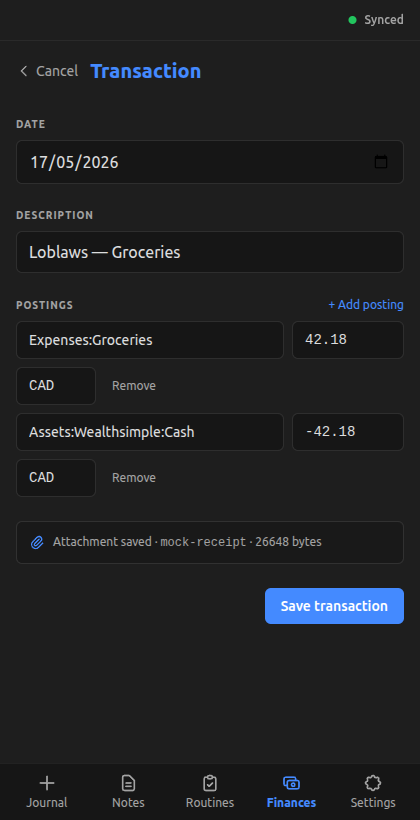
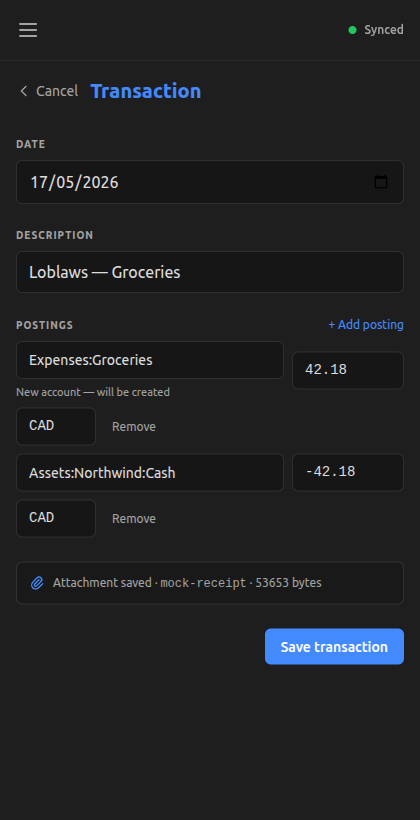
Sanitize omni-me logbook posts to fictional roster

diff --git a/content/posts/logbook/omni-me/reconciling-multi-source-transactions/index.md b/content/posts/logbook/omni-me/reconciling-multi-source-transactions/index.md
@@ -68,13 +68,13 @@ test reconciliation::tests::rejects_amount_mismatch ... ok
 test reconciliation::tests::rejects_outside_days_window ... ok
 test reconciliation::tests::rejects_currency_mismatch ... ok
 test reconciliation::tests::rejects_same_sign_pairs ... ok
-test statement_csv::tests::parse_cibc_chequing_empty_input_errors ... ok
-test statement_csv::tests::parse_cibc_chequing_handles_zero_amount_as_skip ... ok
-test statement_csv::tests::parse_cibc_chequing_accepts_legacy_us_date_format ... ok
-test statement_csv::tests::parse_cibc_chequing_rejects_both_debit_and_credit_populated ... ok
-test statement_csv::tests::parse_cibc_chequing_basic ... ok
-test statement_csv::tests::parse_cibc_chequing_skips_blank_blank_row ... ok
-test statement_csv::tests::parse_cibc_chequing_skips_header_row ... ok
+test statement_csv::tests::parse_chequing_csv_empty_input_errors ... ok
+test statement_csv::tests::parse_chequing_csv_handles_zero_amount_as_skip ... ok
+test statement_csv::tests::parse_chequing_csv_accepts_legacy_us_date_format ... ok
+test statement_csv::tests::parse_chequing_csv_rejects_both_debit_and_credit_populated ... ok
+test statement_csv::tests::parse_chequing_csv_basic ... ok
+test statement_csv::tests::parse_chequing_csv_skips_blank_blank_row ... ok
+test statement_csv::tests::parse_chequing_csv_skips_header_row ... ok
 
 test result: ok. 22 passed; 0 failed; 0 ignored; 0 measured; 347 filtered out; finished in 0.00s
 
@@ -95,17 +95,17 @@ statement source; output stable in score-descending order.
 positive discrepancy when cleared exceeds statement; negative when
 cleared falls short.
 
-[`core/src/statement_csv.rs:75`](https://github.com/RustWright/omni-me/blob/55421b3ed61f2d5b4df308a94810c0e7c68b7615/core/src/statement_csv.rs#L75) at `55421b3`
-> `pub fn parse_cibc_chequing(csv: &str) -> Result<Vec<ParsedStatementRow>, CsvParseError> {`
+[`core/src/statement_csv.rs:75`](https://github.com/RustWright/omni-me/blob/baf3fd48e9d6ea5cebad9590eaaf7de1c2750a11/core/src/statement_csv.rs#L75) at `baf3fd4`
+> `pub fn parse_chequing_csv(csv: &str) -> Result<Vec<ParsedStatementRow>, CsvParseError> {`
 >
-> parse_cibc_chequing — the CSV parser entry. Returns a format-agnostic ParsedStatementRow shape (date, description, amount + sign direction); the caller layers on the source-account + Unmatched-leg construction at the Tauri-command boundary.
+> parse_chequing_csv — the CSV parser entry. Returns a format-agnostic ParsedStatementRow shape (date, description, amount + sign direction); the caller layers on the source-account + Unmatched-leg construction at the Tauri-command boundary.
 
-[`core/src/reconciliation.rs:69`](https://github.com/RustWright/omni-me/blob/55421b3ed61f2d5b4df308a94810c0e7c68b7615/core/src/reconciliation.rs#L69) at `55421b3`
+[`core/src/reconciliation.rs:69`](https://github.com/RustWright/omni-me/blob/baf3fd48e9d6ea5cebad9590eaaf7de1c2750a11/core/src/reconciliation.rs#L69) at `baf3fd4`
 > `pub fn find_match_candidates(`
 >
 > find_match_candidates — the matching engine entry. Walks Unmatched-touching transactions pairwise, gates on amount-cancels-out + same-commodity + within-days-window, scores survivors by day-decay + description-similarity, and returns pairs in score-descending order (lex-stable so the same input yields the same output).
 
-[`core/src/budget.rs:208`](https://github.com/RustWright/omni-me/blob/55421b3ed61f2d5b4df308a94810c0e7c68b7615/core/src/budget.rs#L208) at `55421b3`
+[`core/src/budget.rs:208`](https://github.com/RustWright/omni-me/blob/baf3fd48e9d6ea5cebad9590eaaf7de1c2750a11/core/src/budget.rs#L208) at `baf3fd4`
 > `pub fn balance_check(`
 >
 > balance_check — sums the cleared postings on the supplied account up through the as-of date, then subtracts the statement's reported closing balance. Zero is balanced; any non-zero is the discrepancy the verdict card surfaces.
@@ -143,11 +143,11 @@ When the workflow is done, Balance check audits the result against
 the statement's reported total:
 
 
-![The Balance check form filled in for Assets:CIBC:Chequing with a statement balance of 1500.00 CAD; below, an amber verdict card reads "Discrepancy: -20.00 CAD (1480.00 cleared vs 1500.00 on statement)".](./balance-check-discrepancy-verdict.png)
+![The Balance check form filled in for Assets:Summit:Chequing with a statement balance of 1500.00 CAD; below, an amber verdict card reads "Discrepancy: -20.00 CAD (1480.00 cleared vs 1500.00 on statement)".](./balance-check-discrepancy-verdict.png)
 
 ## What's worth remembering or doing next?
 
 - The matching engine is a concepts-demo candidate: a pure-transform WASM island taking fake `Unmatched`-touching transactions, surfacing ranked candidates, and rendering the merge. Teaches the balance-zero invariant interactively.
 - Cross-commodity matching is deferred (same-commodity gate today). Workaround: merge cross-currency pairs manually. Revisit when FX-pair patterns are common enough to make the manual path painful.
 - A balancing-posting affordance for hidden fees (wire fees, FX spread) is deferred. Workaround: record a separate manual fee transaction. Revisit if reconciliation often needs a third leg.
-- CSV format variants deferred — credit-card layout adds a column the chequing parser doesn't read; non-CIBC banks need their own parser. Sign convention already covers Asset and Liability accounts uniformly.
+- CSV format variants deferred — credit-card layout adds a column the chequing parser doesn't read; non-Summit banks need their own parser. Sign convention already covers Asset and Liability accounts uniformly.

diff --git a/content/posts/logbook/omni-me/browse-view-edit-transactions/index.md b/content/posts/logbook/omni-me/browse-view-edit-transactions/index.md
@@ -66,7 +66,7 @@ test result: ok. 0 passed; 0 failed; 0 ignored; 0 measured; 5 filtered out; fini
 
 ```
 
-[`core/src/events/budget_projection.rs:1148`](https://github.com/RustWright/omni-me/blob/c3a3f893e64bfe6690b332261a0175bb50985328/core/src/events/budget_projection.rs#L1148) at `c3a3f89`
+[`core/src/events/budget_projection.rs:1242`](https://github.com/RustWright/omni-me/blob/baf3fd48e9d6ea5cebad9590eaaf7de1c2750a11/core/src/events/budget_projection.rs#L1242) at `baf3fd4`
 > `    async fn list_transactions_filter_by_date_range() {`
 >
 > Filter test block — six tests against a tempfile::tempdir + real BudgetProjection fixture cover all four filter axes (date range, account substring case-insensitive, category exact, tag membership) plus blank-string normalization plus the empty-filter pass-through. This first test is one of the six; the rest follow immediately below.
@@ -76,7 +76,7 @@ The list view drives the filter from the frontend side. The screenshot below app
 
 ![Transaction list with tag:food filter applied — two of four mock-fixture rows pass](./01-transaction-list-filtered.png)
 
-[`tauri-app/frontend/src/pages/finances.rs:1732`](https://github.com/RustWright/omni-me/blob/c3a3f893e64bfe6690b332261a0175bb50985328/tauri-app/frontend/src/pages/finances.rs#L1732) at `c3a3f89`
+[`tauri-app/frontend/src/pages/finances.rs:2145`](https://github.com/RustWright/omni-me/blob/baf3fd48e9d6ea5cebad9590eaaf7de1c2750a11/tauri-app/frontend/src/pages/finances.rs#L2145) at `baf3fd4`
 > `fn TransactionListView(`
 >
 > The list view's two-state filter — `draft_filter` for what the FilterBar inputs hold, `active_filter` for what the current page reflects. Typing into a field doesn't fire a query; only Apply copies draft → active, and the `use_effect` re-runs on `active_filter` change. Load-more pagination defaults to 50 rows per page.
@@ -102,7 +102,7 @@ test result: ok. 5 passed; 0 failed; 0 ignored; 0 measured; 28 filtered out; fin
 
 ```
 
-[`tauri-app/frontend/src/pages/finances.rs:2416`](https://github.com/RustWright/omni-me/blob/c3a3f893e64bfe6690b332261a0175bb50985328/tauri-app/frontend/src/pages/finances.rs#L2416) at `c3a3f89`
+[`tauri-app/frontend/src/pages/finances.rs:5360`](https://github.com/RustWright/omni-me/blob/baf3fd48e9d6ea5cebad9590eaaf7de1c2750a11/tauri-app/frontend/src/pages/finances.rs#L5360) at `baf3fd4`
 > `mod tests {`
 >
 > Pure-fn tests for the attachment-helper layer — `classify_attachment` over image, PDF, and "other" MIME variants (including case-insensitivity), plus `extract_attachment_meta` over complete and missing-required-field refs.
@@ -114,7 +114,7 @@ The image-render branch is what the next screenshot shows. The mock backend serv
 
 What revokes the URL when the user navigates away?
 
-[`tauri-app/frontend/src/pages/finances.rs:2127`](https://github.com/RustWright/omni-me/blob/c3a3f893e64bfe6690b332261a0175bb50985328/tauri-app/frontend/src/pages/finances.rs#L2127) at `c3a3f89`
+[`tauri-app/frontend/src/pages/finances.rs:2956`](https://github.com/RustWright/omni-me/blob/baf3fd48e9d6ea5cebad9590eaaf7de1c2750a11/tauri-app/frontend/src/pages/finances.rs#L2956) at `baf3fd4`
 > `impl Drop for ObjectUrlGuard {`
 >
 > Object-URL lifetime guard. The `Drop` impl calls `URL.revokeObjectURL` so the WebView doesn't accumulate orphaned blob URLs across navigations. The detail view holds the guard in a `Signal<Option<ObjectUrlGuard>>`, so unmount drops the guard and revokes the URL automatically.
@@ -124,7 +124,7 @@ Inline edit happens on both surfaces and uses the same component pair. The scree
 
 ![Inline tag edit caught mid-state — a tag input has replaced the +tag affordance, the wrapping row did not navigate to detail](./03-inline-edit-mid-edit.png)
 
-[`tauri-app/frontend/src/pages/finances.rs:1540`](https://github.com/RustWright/omni-me/blob/c3a3f893e64bfe6690b332261a0175bb50985328/tauri-app/frontend/src/pages/finances.rs#L1540) at `c3a3f89`
+[`tauri-app/frontend/src/pages/finances.rs:1953`](https://github.com/RustWright/omni-me/blob/baf3fd48e9d6ea5cebad9590eaaf7de1c2750a11/tauri-app/frontend/src/pages/finances.rs#L1953) at `baf3fd4`
 > `fn EditableCategoryChip(`
 >
 > The inline-edit chip. Click swaps the chip for an input; Enter saves and the chip updates in place, Escape cancels. Every internal click calls `stop_propagation` so the wrapping list-row button doesn't navigate to detail mid-edit — that's the load-bearing engineering claim of inline editing on a clickable row. Same pattern (click-to-input, Enter saves, Escape cancels, `stop_propagation` on every internal click) drives the tag-list editor too.

diff --git a/content/posts/logbook/omni-me/capture-transaction-with-receipt/index.md b/content/posts/logbook/omni-me/capture-transaction-with-receipt/index.md
@@ -17,7 +17,7 @@ omni-me accepts a transaction through four entry points: a photo, a PDF, the bod
 
 The budget pipeline existed end-to-end on the backend before any of this work began: 16 event types, 12 Tauri commands, and three auto-import sources running server-side. None of it had a UI inbound path. The commands were orphan code, reachable only from DevTools — usable on paper, unreachable from the app.
 
-Automatic import — Wise, WealthSimple, and an email IMAP poller — was the foreground work for the preceding stretch; the previous personal-finance tracking attempt collapsed when manual sync became tedious enough to abandon, which is why automation got priority. But automatic import only covers what the user's banks export. Everything else — paper receipts, photo receipts, ad-hoc cash transactions, statements from accounts without an API — still needs a hand-driven entry path. Capture is that path.
+Automatic import — Globepay, Northwind, and an email IMAP poller — was the foreground work for the preceding stretch; the previous personal-finance tracking attempt collapsed when manual sync became tedious enough to abandon, which is why automation got priority. But automatic import only covers what the user's banks export. Everything else — paper receipts, photo receipts, ad-hoc cash transactions, statements from accounts without an API — still needs a hand-driven entry path. Capture is that path.
 
 Persisting the captured file alongside the transaction was the last sub-step before *capture* meant what it sounded like. Without it, the receipt is discarded the moment the transaction is saved, and the auto-import-vs-manual distinction collapses into "either way the source document disappears."
 
@@ -63,7 +63,7 @@ running 0 tests
 test result: ok. 0 passed; 0 failed; 0 ignored; 0 measured; 0 filtered out; finished in 0.00s
 ```
 
-[`tauri-app/src-tauri/src/commands/attachments.rs:1`](https://github.com/RustWright/omni-me/blob/3bde328e748d6113586f9059fc186b1b26c5b2b0/tauri-app/src-tauri/src/commands/attachments.rs#L1) at `3bde328`
+[`tauri-app/src-tauri/src/commands/attachments.rs:1`](https://github.com/RustWright/omni-me/blob/baf3fd48e9d6ea5cebad9590eaaf7de1c2750a11/tauri-app/src-tauri/src/commands/attachments.rs#L1) at `baf3fd4`
 > `//! Local attachment cache (Phase 3.7).`
 >
 > The cache module — the five tests at the bottom `#[cfg(test)] mod tests` block exercise the LRU in isolation, no Tauri runtime involved.
@@ -80,7 +80,7 @@ Picking a file kicks off the extract round trip. The confirm form lands pre-popu
 
 ![TransactionForm pre-populated with extracted draft and the Attachment saved indicator](./03-transaction-form-with-attachment.png)
 
-[`server/src/routes/documents.rs:46`](https://github.com/RustWright/omni-me/blob/3bde328e748d6113586f9059fc186b1b26c5b2b0/server/src/routes/documents.rs#L46) at `3bde328`
+[`server/src/routes/documents.rs:46`](https://github.com/RustWright/omni-me/blob/baf3fd48e9d6ea5cebad9590eaaf7de1c2750a11/server/src/routes/documents.rs#L46) at `baf3fd4`
 > `async fn extract_handler(`
 >
 > The `extract_handler` — when `?attach=true` is set on the query, the same body bytes that get extracted are hashed and stored into the blob dir; the response carries the `AttachmentRef` back in one round trip.

diff --git a/content/posts/logbook/omni-me/budget-setup-progress/index.md b/content/posts/logbook/omni-me/budget-setup-progress/index.md
@@ -87,12 +87,12 @@ skipped silently. **Posting flatten** (4 tests): non-expense legs
 drop, foreign legs without a Prices entry drop, base-currency legs
 pass through, malformed rows skip.
 
-[`core/src/budget.rs:27`](https://github.com/RustWright/omni-me/blob/55421b3ed61f2d5b4df308a94810c0e7c68b7615/core/src/budget.rs#L27) at `55421b3`
+[`core/src/budget.rs:27`](https://github.com/RustWright/omni-me/blob/baf3fd48e9d6ea5cebad9590eaaf7de1c2750a11/core/src/budget.rs#L27) at `baf3fd4`
 > `pub fn period_to_days(period: &str) -> Option<u32> {`
 >
 > period_to_days — the cadence parser. `custom:N` is the forward-compat hook the dropdown doesn't yet expose; the test bucket above covers its positive-integer / zero / non-numeric branches.
 
-[`core/src/budget.rs:266`](https://github.com/RustWright/omni-me/blob/55421b3ed61f2d5b4df308a94810c0e7c68b7615/core/src/budget.rs#L266) at `55421b3`
+[`core/src/budget.rs:266`](https://github.com/RustWright/omni-me/blob/baf3fd48e9d6ea5cebad9590eaaf7de1c2750a11/core/src/budget.rs#L266) at `baf3fd4`
 > `pub fn compute_budget_progress(`
 >
 > compute_budget_progress — the aggregator entry point. Takes the budget set, the flattened postings, and an `as_of` date; per budget, resolves the current window via `current_period_window`, sums matching postings, and returns the `BudgetProgress` rows the screen renders.
@@ -121,7 +121,7 @@ and falls back to the raw string for unknowns — so a hand-crafted
 being silently downgraded. **Bar color** (3 tests): the three-band
 policy picks green under 75%, amber up to 100%, red over budget.
 
-[`tauri-app/frontend/src/pages/finances.rs:3239`](https://github.com/RustWright/omni-me/blob/55421b3ed61f2d5b4df308a94810c0e7c68b7615/tauri-app/frontend/src/pages/finances.rs#L3239) at `55421b3`
+[`tauri-app/frontend/src/pages/finances.rs:3843`](https://github.com/RustWright/omni-me/blob/baf3fd48e9d6ea5cebad9590eaaf7de1c2750a11/tauri-app/frontend/src/pages/finances.rs#L3843) at `baf3fd4`
 > `fn progress_color_class(percent_used: f64, over_budget: bool) -> &'static str {`
 >
 > progress_color_class — the bar-color policy. Takes the percent-used and an over-budget flag; returns the Tailwind class for the bar fill. The three-band cutoffs visible in the screenshots below land in this function.
@@ -130,7 +130,7 @@ The screen's entry point lives in the Finances tab's *Plan +
 reconcile* section, alongside Recurring and Import statement:
 
 
-![The Finances home with the Plan + reconcile section showing three entries: Budgets, Recurring, and Import statement.](./finances-home-plan-reconcile-section.png)
+![The Finances home scrolled to the Plan + reconcile section, with Budgets listed alongside Recurring, Import statement, and the other reconcile entries.](./finances-home-plan-reconcile-section.png)
 
 Inside, the screen carries the add form at the top and one progress
 row per saved budget. Three rows here illustrate the three color

diff --git a/content/posts/logbook/omni-me/account-list-multi-currency/index.md b/content/posts/logbook/omni-me/account-list-multi-currency/index.md
@@ -28,7 +28,7 @@ converts.
 ## Why was it added now?
 
 The user holds money in several currencies, at multiple banks. A
-typical mix today spans CAD, USD, EUR, and NGN, and that set tends to
+typical mix today spans CAD, USD, EUR, and AED, and that set tends to
 grow as new activities come up. Without a surface that converts those
 holdings into one figure, "how much do I have right now" requires
 re-doing the FX math across banking apps or a spreadsheet. The
@@ -92,23 +92,23 @@ splicing** — joining the reconciliation date and statement balance
 onto the computed balance so the screen can show "last reconciled
 through X · statement Y."
 
-[`core/src/balances.rs:93`](https://github.com/RustWright/omni-me/blob/a43610db99545c992aebb9917387449a358a5bae/core/src/balances.rs#L93) at `a43610d`
+[`core/src/balances.rs:83`](https://github.com/RustWright/omni-me/blob/baf3fd48e9d6ea5cebad9590eaaf7de1c2750a11/core/src/balances.rs#L83) at `baf3fd4`
 > `pub fn account_summaries(`
 >
 > Pure-function entry point — takes journal content + declared accounts + base currency, returns one summary per surfaced account with per-commodity rows and a base-currency total.
 
-[`core/src/balances.rs:180`](https://github.com/RustWright/omni-me/blob/a43610db99545c992aebb9917387449a358a5bae/core/src/balances.rs#L180) at `a43610d`
+[`core/src/balances.rs:257`](https://github.com/RustWright/omni-me/blob/baf3fd48e9d6ea5cebad9590eaaf7de1c2750a11/core/src/balances.rs#L257) at `baf3fd4`
 > `mod tests {`
 >
 > Test module — fixtures + the 8 test cases that exercise the three buckets above.
 
 The rendered screen shows the multi-commodity row in context — the
-Wise account folds CAD, EUR, and USD into a single CAD total, and the
-Standard Chartered NGN account shows the `—` badge where no rate is
+Globepay account folds CAD, EUR, and USD into a single CAD total, and the
+Meridian AED account shows the `—` badge where no rate is
 available to convert the native amount:
 
 
-![Accounts screen showing five cards — the Wise row folds CAD, EUR, and USD into a single CAD total; the Standard Chartered NGN row shows the `—` badge where no rate is available to convert the native amount.](./01-accounts-multi-currency.png)
+![Accounts screen showing five cards — the Globepay row folds CAD, EUR, and USD into a single CAD total; the Meridian AED row shows the `—` badge where no rate is available to convert the native amount.](./01-accounts-multi-currency.png)
 
 ## What's worth remembering or doing next?
 

diff --git a/content/posts/logbook/omni-me/recurring-detection-confirmation/index.md b/content/posts/logbook/omni-me/recurring-detection-confirmation/index.md
@@ -82,17 +82,17 @@ otherwise-clean rhythm. **Determinism** (1 test): the pattern id
 derived from the vendor/amount/cadence shape is stable across runs —
 what lets the user's Confirm or Dismiss survive a re-scan.
 
-[`core/src/recurring.rs:57`](https://github.com/RustWright/omni-me/blob/55421b3ed61f2d5b4df308a94810c0e7c68b7615/core/src/recurring.rs#L57) at `55421b3`
+[`core/src/recurring.rs:57`](https://github.com/RustWright/omni-me/blob/baf3fd48e9d6ea5cebad9590eaaf7de1c2750a11/core/src/recurring.rs#L57) at `baf3fd4`
 > `pub fn classify_cadence(gaps_days: &[u32]) -> Option<u32> {`
 >
 > classify_cadence — takes the sorted day-gaps between occurrences and returns the median cadence if every gap falls inside that median's tolerance bucket (7-day, 14-day, 30-day, or pass-through). The all-gaps-must-agree check is what keeps a few coincidentally-spaced charges from being labeled a pattern.
 
-[`core/src/recurring.rs:97`](https://github.com/RustWright/omni-me/blob/55421b3ed61f2d5b4df308a94810c0e7c68b7615/core/src/recurring.rs#L97) at `55421b3`
+[`core/src/recurring.rs:97`](https://github.com/RustWright/omni-me/blob/baf3fd48e9d6ea5cebad9590eaaf7de1c2750a11/core/src/recurring.rs#L97) at `baf3fd4`
 > `pub fn detect_patterns(txn_rows: &[TxnPostingsRow]) -> Vec<DetectedPattern> {`
 >
 > detect_patterns — the scanner entry. Groups transactions by (category, signed amount, commodity), drops groups below MIN_OCCURRENCES, sorts each group's dates, computes day-gaps, calls classify_cadence, and emits one DetectedPattern per accepted group.
 
-[`tauri-app/src-tauri/src/recurring_scanner.rs:25`](https://github.com/RustWright/omni-me/blob/55421b3ed61f2d5b4df308a94810c0e7c68b7615/tauri-app/src-tauri/src/recurring_scanner.rs#L25) at `55421b3`
+[`tauri-app/src-tauri/src/recurring_scanner.rs:25`](https://github.com/RustWright/omni-me/blob/baf3fd48e9d6ea5cebad9590eaaf7de1c2750a11/tauri-app/src-tauri/src/recurring_scanner.rs#L25) at `baf3fd4`
 > `pub fn spawn(`
 >
 > spawn — the boot-spawned nightly task. 60-second warm-up so the first scan doesn't compete with app startup, then a 24-hour cadence indefinitely. Each tick calls detect_patterns over the current journal and emits RecurringTransactionDetected events for pattern ids that aren't already in the recurring_patterns table.

diff --git a/content/posts/logbook/omni-me/financial-health-dashboard/index.md b/content/posts/logbook/omni-me/financial-health-dashboard/index.md
@@ -100,12 +100,12 @@ headroom; no when balance lands exactly at zero (the strict-`>` rule
 from the policy decision); no when net worth is unavailable; negative
 amounts treated as refunds.
 
-[`core/src/dashboard.rs:90`](https://github.com/RustWright/omni-me/blob/a68b2ee706090cbed2ba498ac30484fbb4e41329/core/src/dashboard.rs#L90) at `a68b2ee`
+[`core/src/dashboard.rs:101`](https://github.com/RustWright/omni-me/blob/baf3fd48e9d6ea5cebad9590eaaf7de1c2750a11/core/src/dashboard.rs#L101) at `baf3fd4`
 > `pub fn dashboard_summary(`
 >
 > Pure-function entry point — produces the four-widget payload (net worth, Unmatched, monthly trend, recurring) from a parsed journal, declared accounts, and confirmed recurring patterns.
 
-[`core/src/dashboard.rs:312`](https://github.com/RustWright/omni-me/blob/a68b2ee706090cbed2ba498ac30484fbb4e41329/core/src/dashboard.rs#L312) at `a68b2ee`
+[`core/src/dashboard.rs:348`](https://github.com/RustWright/omni-me/blob/baf3fd48e9d6ea5cebad9590eaaf7de1c2750a11/core/src/dashboard.rs#L348) at `baf3fd4`
 > `pub fn can_i_afford(amount: Decimal, summary: &DashboardSummary) -> AffordVerdict {`
 >
 > The Can-I-Afford policy — strict-`>` boundary so a balance landing exactly at zero reads as can't-afford.
